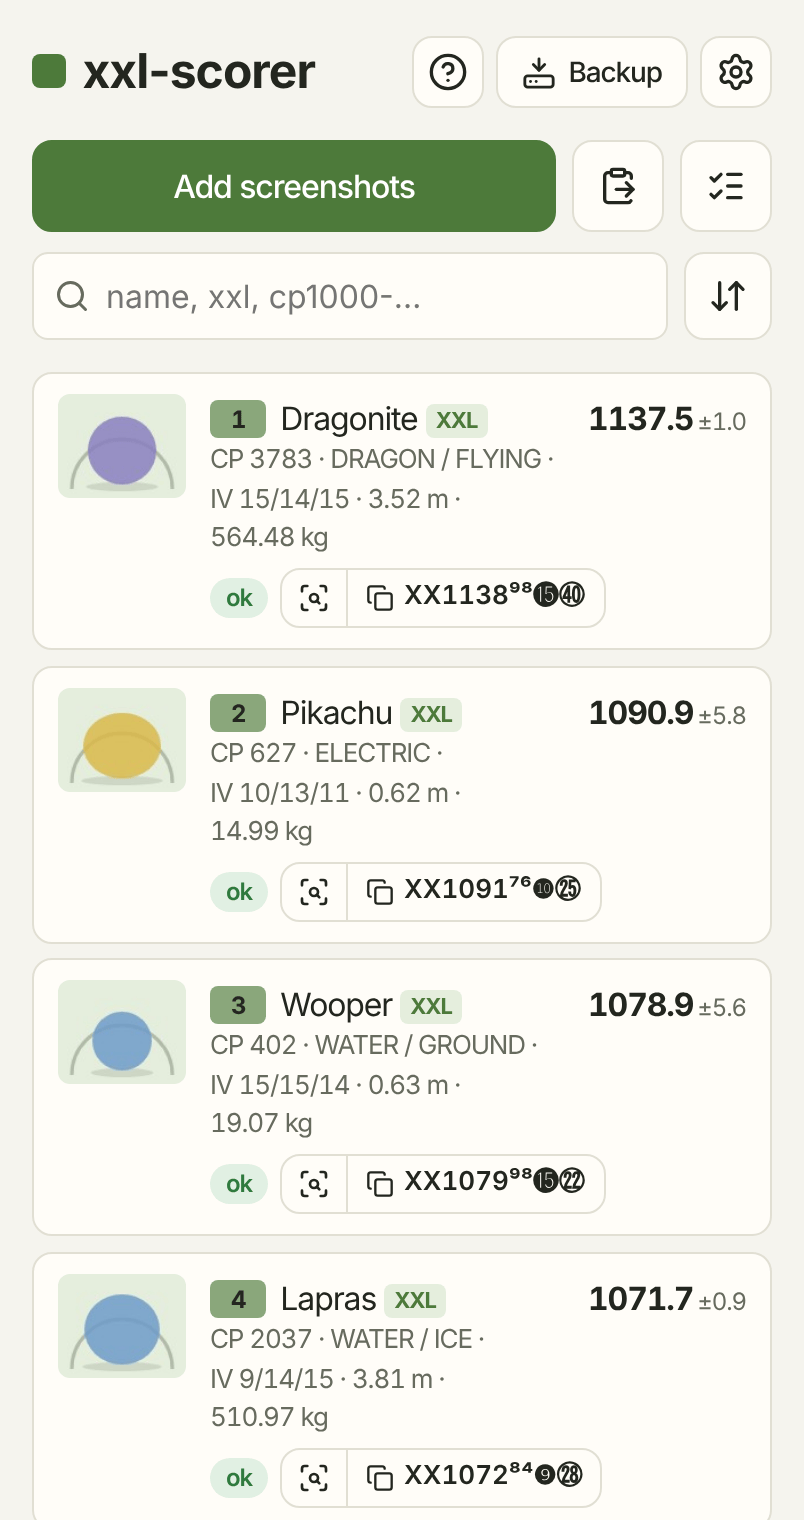
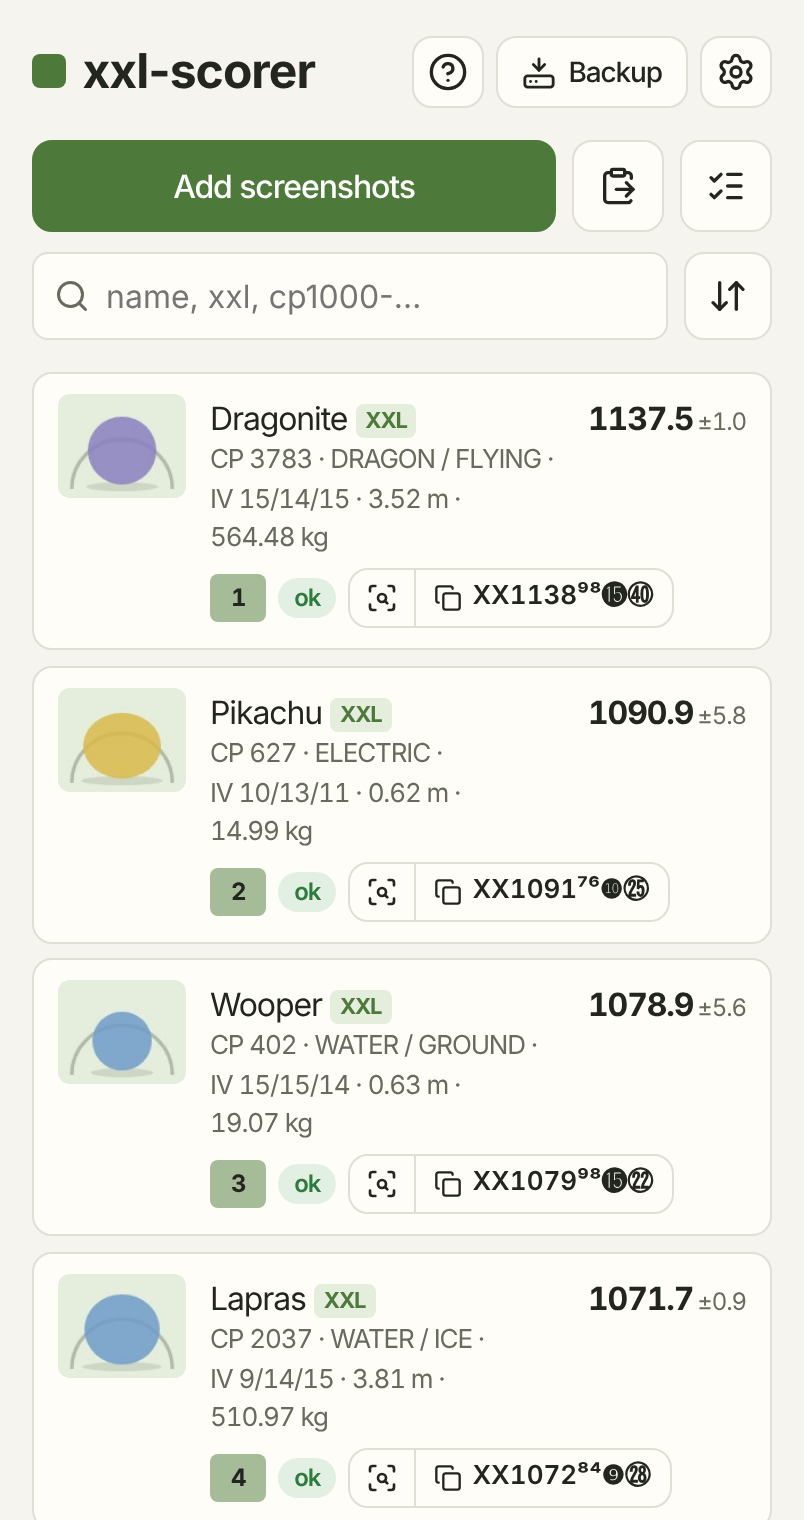
Rank in a column of its own; paler tint in light mode
In the name column the rank tag made a busy cell next to the XXL tag,
and the names moved right from place 99 to 100. The rank now has a
column of its own at the start of the row, right-aligned: a column is
as wide as its widest tag, so nothing moves. On phones the same cell
stands in the button row, before "ok".

Light mode: the top ten's tint goes from two thirds to half of the
accent (#a6bc99), dark text 7.5:1 instead of 5.8:1; the medium green
read poorly with either dark or white text. Dark mode is unchanged.

The smoke test measures the row heights with every row drawn: rows off
screen reported a stand-in height (content-visibility).

diff --git a/app.css b/app.css
@@ -8,7 +8,7 @@
 	--accent: #4d7a3a;
 	--accent-text: #ffffff;
 	--accent-soft: #e5eedd;
-	--rank-top: #8aa77b;		/* the accent, two thirds into --surface */
+	--rank-top: #a6bc99;		/* the accent, half into --surface: dark text 7.5:1 */
 	--rank-top-text: #23261f;
 	--ok: #2f7a3e;
 	--ok-soft: #e1f0e3;
@@ -30,7 +30,7 @@
 		--accent: #9cc77f;
 		--accent-text: #142010;
 		--accent-soft: #263320;
-		--rank-top: #728f5d;
+		--rank-top: #728f5d;	/* two thirds: dark text 4.6:1 */
 		--rank-top-text: #142010;
 		--ok: #8fd19b;
 		--ok-soft: #1f3324;
@@ -195,9 +195,11 @@ td.c-thumb { position: relative; }
 .tick { position: absolute; left: 4px; top: 4px; width: 24px; height: 24px; border-radius: 50%; display: grid; place-items: center; font-size: 15px; font-weight: 700; background: rgb(0 0 0 / 0.45); color: #fff; border: 2px solid #fff; }
 /* Select mode keeps the find and copy buttons, so a card doesn't change height (renderRow) */
 body.selecting .pair { opacity: 0.35; }
-/* The place by score in the list shown (setRank), before the name; the top ten tinted. Two
-   digits wide, so the names line up from 9 to 10. */
-.rank { display: inline-block; box-sizing: content-box; min-width: 2ch; padding: 0 6px; margin-right: 7px; border-radius: 4px; font-size: 12px; font-weight: 700; line-height: 19px; text-align: center; vertical-align: 1px; font-variant-numeric: tabular-nums; background: var(--line); color: var(--muted); }
+/* The place by score in the list shown (setRank), the top ten tinted. A column of its own,
+   right-aligned: it is as wide as its widest tag, so nothing moves from 99 to 100 (on phones
+   it stands before "ok", below). */
+td.c-rank, th.c-rank { width: 1%; padding-right: 0; }
+.rank { display: inline-block; box-sizing: content-box; min-width: 2ch; padding: 0 6px; border-radius: 4px; font-size: 12px; font-weight: 700; line-height: 19px; text-align: center; vertical-align: 1px; font-variant-numeric: tabular-nums; background: var(--line); color: var(--muted); }
 .rank:empty { display: none; }
 .rank.top { background: var(--rank-top); color: var(--rank-top-text); }
 tr.selected .tick { background: var(--accent); color: var(--accent-text); border-color: var(--accent); }
@@ -336,7 +338,7 @@ summary { cursor: pointer; color: var(--muted); }
 	thead { position: absolute; width: 1px; height: 1px; overflow: hidden; clip: rect(0 0 0 0); }
 	table { background: none; }
 	tbody tr {
-		display: grid; grid-template-columns: 64px 1fr auto; grid-template-areas: "t n s" "t st st";
+		display: grid; grid-template-columns: 64px auto 1fr auto; grid-template-areas: "t n n s" "t r st st";
 		gap: 4px 12px; padding: 10px 12px; margin-bottom: 8px; background: var(--surface); border: 1px solid var(--line); border-radius: var(--radius);
 		/* cards off screen are not laid out or painted: a sort or a tap in a list of hundreds
 		   stays quick on a phone. 130px stands in until a card has been drawn once (auto) */
@@ -349,5 +351,9 @@ summary { cursor: pointer; color: var(--muted); }
 	td.c-name { grid-area: n; }
 	td.c-meta { display: none; }
 	td.c-status { grid-area: st; }
+	/* the rank before "ok", 6 px from it; a row without a rank gives its place to the status */
+	td.c-rank { grid-area: r; align-self: center; width: auto; margin-right: -6px; }
+	td.c-rank .rank { line-height: 24px; }
+	tbody tr:has(.rank:empty) td.c-status { grid-column: 2 / -1; }
 	.mobile-meta { display: block; }
 }

diff --git a/src/ui/app.js b/src/ui/app.js
@@ -509,10 +509,11 @@ function renderRow({ row, e, dup }) {
 		'aria-selected': state.selecting ? String(sel) : null,
 		onclick: act, onkeydown: ev => { if (ev.key === 'Enter' || (state.selecting && ev.key === ' ')) { ev.preventDefault(); act(); } },
 	},
+		el('td', { class: 'c-rank c-num' }, el('span', { class: 'rank' })),
 		el('td', { class: 'c-thumb' }, row.thumb ? el('img', { src: row.thumb, alt: '', loading: 'lazy' }) : null,
 			state.selecting ? el('span', { class: 'tick', 'aria-hidden': 'true' }, sel ? '✓' : '') : null),
 		el('td', { class: 'c-num c-score' }, ...scoreCell(e)),
-		el('td', { class: 'c-name name' }, el('span', { class: 'rank' }), e.name || e.id || '?', e.formName ? el('small', {}, ` ${e.formName}`) : null,
+		el('td', { class: 'c-name name' }, e.name || e.id || '?', e.formName ? el('small', {}, ` ${e.formName}`) : null,
 			e.xxl ? el('span', { class: 'xxl' }, 'XXL') : e.xxs ? el('span', { class: 'xxl' }, 'XXS') : null, el('div', { class: 'mobile-meta' }, meta)),
 		el('td', { class: 'c-meta c-num', 'data-label': 'CP' }, e.cp ?? '–'),
 		el('td', { class: 'c-meta', 'data-label': 'Type' }, e.types.replace('/', ' / ').toLowerCase()),

diff --git a/tests/browser/smoke.js b/tests/browser/smoke.js
@@ -290,7 +290,13 @@ for (const width of [402, 1280]) {
 			assert.equal((await tagged(page)).length, 12, 'none drawn again for the ranks');
 
 			// select mode: marks on exactly the rows tapped, also after a search and back
-			const heights = () => page.$$eval('#rows tr', trs => trs.map(t => t.getBoundingClientRect().height));
+			// rows off screen report a stand-in height (content-visibility): measured drawn
+			const heights = () => page.$$eval('#rows tr', trs => {
+				for (const t of trs) t.style.contentVisibility = 'visible';
+				const hs = trs.map(t => t.getBoundingClientRect().height);
+				for (const t of trs) t.style.contentVisibility = '';
+				return hs;
+			});
 			const unselected = await heights();
 			await page.click('#select-btn');
 			assert.deepEqual(await heights(), unselected, 'select mode keeps every row\'s height');

diff --git a/index.html b/index.html
@@ -155,6 +155,7 @@
 			<table id="table" hidden>
 				<thead>
 					<tr>
+						<th scope="col" class="c-rank c-num"><span class="sr">Rank</span></th>
 						<th scope="col" class="c-thumb"><span class="sr">Picture</span></th>
 						<th scope="col" data-sort="score" class="c-num">Score</th>
 						<th scope="col" data-sort="name">Pokémon</th>

diff --git a/README.md b/README.md
@@ -85,9 +85,9 @@ won't run JavaScript modules from `file://`.
    sorts by Newest, CP, Pokédex number, name, IVs or catch date too; pick the current one again
    to reverse it. Right after adding screenshots the list shows the newest first, so new and
    rescanned Pokémon are at the top, ready for their nickname; the button is tinted while the
-   list isn't sorted by score. The number before each name is the Pokémon's place by score
-   among those shown, whatever the order; the top ten are tinted. Search for a species to see
-   how your Pokémon of it would rank in its showcase.
+   list isn't sorted by score. The number at the start of each row (on phones, before "ok") is
+   the Pokémon's place by score among those shown, whatever the order; the top ten are tinted.
+   Search for a species to see how your Pokémon of it would rank in its showcase.
 4. **Search** narrows the list: a name, or the game's own search terms: `cp700-800`, `hp100-`,
    `xxl`, `xxs`, `lucky`, `4*` (stars), `3-4attack`, `rock`, `74` (Pokédex number), `year2024`,
    plus `score1100-`.

diff --git a/CHANGELOG.md b/CHANGELOG.md
@@ -8,8 +8,9 @@ collect under "Unreleased".
 
 ## Unreleased
 
-- Each Pokémon's name has its place by score in front, among the Pokémon shown (with a
-  search, among those it finds), whatever the list is sorted by; the top ten are tinted
+- Each row starts with the Pokémon's place by score among the Pokémon shown (with a search,
+  among those it finds), whatever the list is sorted by; on phones it stands before "ok". The
+  top ten are tinted
 - Select mode keeps the find and copy buttons (dimmed), so the list no longer jumps when it ends
 
 ## 1.5 - 2026-10-26
